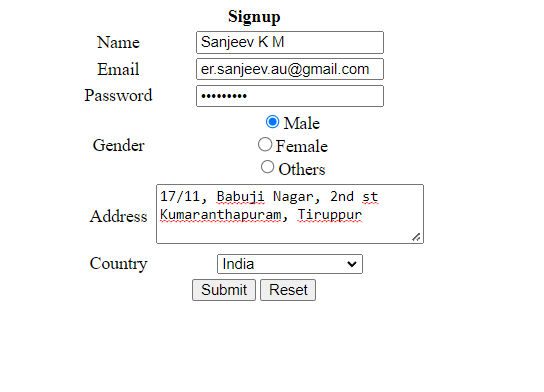
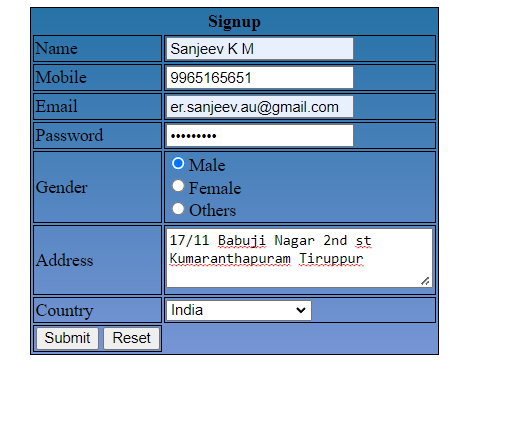
Assignment-2 completed

diff --git a/Assignments/Team_Member2-Sanjeev_K_M/Assignment1/form.html b/Assignments/Team_Member2-Sanjeev_K_M/Assignment1/form.html
@@ -1,18 +1,12 @@
 <!DOCTYPE html>
 <html>
 <head>
-    <title>Register</title>
+    <title>Register for UCloud</title>
+    <link rel="stylesheet" href="form_style.css">
 </head>
-<style>
-    form{
-        text-align: center;
-        max-width: 500px;
-        margin: auto;
-    }
-</style>
 <body>
     <form method="post">
-        <table>
+        <table class="reg_form">
             <tr>	
                 <th colspan="2">Signup</th>
             </tr>
@@ -20,7 +14,10 @@
                 <td><label for="name">Name</label></td>
                 <td><input id="name" type="text" name="name" placeholder="Enter your name" required></td>
             </tr>
-            
+            <tr>
+                <td><label for="mobile">Mobile</label></td>
+                <td><input id="mobile" type="Number" name="mobile" placeholder="Enter your phone number" required></td>
+            </tr>
             <tr>
                 <td><label for="email">Email</label></td>
                 <td><input id="email" type="email" name="email" placeholder="Enter your email" required></td>
@@ -50,31 +47,31 @@
                     <option value="" selected disabled hidden>Choose country</option>
                     <option value="india">India</option>
                     <option value="us">United States</option>
-                    <option value="uk">United Kingdom</option>
-                    <option value="russia">Russia</option>
+                    <option value="finland">Finland</option>
                     <option value="australia">Australia</option>
-                    <option value="none">None of the above</option>
+                    <option value="nota">None of the above</option>
                 </select>    
                 </td>
             </tr>
             <tr rowspan="2">
-                <td colspan="2">
-                    <button type="button" onclick="submitForm()">Submit</button>
-                    <input id="button" type="reset" value="Reset" name="reset">
+                <td>
+                <button type="button" onclick="testJS()">Submit</button>
+                <input id="button" type="reset" value="Reset" name="reset">
                 </td>
             </tr>
         </table>
     </form>
 </body>
 <script>
-    function submitForm() {
-    
+    function testJS() {
+    console.log("Hello");
     var name = document.getElementById('name').value;
+    var mobile = document.getElementById('mobile').value;
     var email = document.getElementById('email').value;
     var gender = document.getElementById('gender').value;
     var address = document.getElementById('address').value;
     var country = document.getElementById('country').value;
-    url = './registration_success.html?name=' + encodeURIComponent(name)+'?email=' + encodeURIComponent(email)+'?gender=' + encodeURIComponent(gender)+'?address=' + encodeURIComponent(address)+'?country=' + encodeURIComponent(country);
+    url = './success_page.html?name=' + encodeURIComponent(name)+'?mobile=' + encodeURIComponent(mobile)+'?email=' + encodeURIComponent(email)+'?gender=' + encodeURIComponent(gender)+'?address=' + encodeURIComponent(address)+'?country=' + encodeURIComponent(country);
 
     document.location.href = url;
 }

diff --git a/Assignments/Team_Member2-Sanjeev_K_M/Assignment2/templates/register.html b/Assignments/Team_Member2-Sanjeev_K_M/Assignment2/templates/register.html
@@ -1,0 +1,27 @@
+<html>
+    <head>
+        <meta charset="UTF-8">
+        <title> Register </title>
+        <link rel="stylesheet" href="{{ url_for('static', filename='styles.css') }}">             
+    </head>
+    <body></br></br></br></br></br>
+        <div align="center">
+          <div align="center" class="border">
+             <div class="header">
+                <h1 class="word">Register</h1>
+             </div></br></br></br>
+            <h2 class="word">
+                <form action="{{ url_for('register') }}" method="post">
+                  <div class="msg">{{ msg }}</div>
+                    <input id="username" name="username" type="text" placeholder="Enter Your Username" class="textbox"/></br></br>
+                    <input id="email" name="email" type="text" placeholder="Enter Your Email ID" class="textbox"/></br></br>
+                    <input id="rollno" name="rollno" type="text" placeholder="Enter Your Rollno" class="textbox"/></br></br>
+                    <input id="password" name="password" type="password" placeholder="Enter Your Password" class="textbox"/></br></br>
+                    <input type="submit" class="btn" value="Register"></br>
+                </form>
+            </h2>
+            <p class="bottom">Already have an account?  <a class="bottom" href="{{url_for('login')}}"> Login</a></p>
+          </div>
+        </div>
+    </body>
+</html>

diff --git a/Assignments/Team_Member2-Sanjeev_K_M/Assignment2/templates/login.html b/Assignments/Team_Member2-Sanjeev_K_M/Assignment2/templates/login.html
@@ -1,0 +1,25 @@
+<html>
+    <head>
+        <meta charset="UTF-8">
+        <title> Login </title>
+        <link rel="stylesheet" href="{{ url_for('static', filename='styles.css') }}">          
+    </head>
+    <body></br></br></br></br></br>
+        <div align="center">
+          <div align="center" class="border">
+             <div class="header">
+                <h1 class="word">Login</h1>
+             </div></br></br></br>
+            <h2 class="word">
+                <form action="{{ url_for('login') }}" method="post">
+                  <div class="msg">{{ msg }}</div>
+                    <input id="username" name="username" type="text" placeholder="Enter Your Username" class="textbox"/></br></br>
+                    <input id="password" name="password" type="password" placeholder="Enter Your Password" class="textbox"/></br></br></br>
+                    <input type="submit" class="btn" value="Login"></br></br>
+                </form>
+            </h2>
+            <p class="bottom">Don't have an account?  <a class="bottom" href="{{url_for('register')}}"> Register</a></p>
+          </div>
+        </div>
+    </body>
+</html>

diff --git a/Assignments/Team_Member2-Sanjeev_K_M/Assignment2/static/styles.css b/Assignments/Team_Member2-Sanjeev_K_M/Assignment2/static/styles.css
@@ -1,0 +1,55 @@
+body {
+  background-color: #a9e8cc;
+}
+
+.header {
+  padding: 2px 120px;
+  width: 150px;
+  height: 70px;
+  background-color: #3fa778;
+}
+
+.border {
+  padding: 10px 50px;
+  width: 400px;
+  height: 500px;
+  border: 1px solid #3fa778;
+  border-radius: 30px;
+  background-color: #3fa778;
+}
+
+.btn {
+  padding: 10px 40px;
+  background-color: #3fa778;
+  color: #ffffff;
+  font-style: oblique;
+  font-weight: bold;
+  border-radius: 10px;
+}
+
+.textbox {
+  padding: 10px 40px;
+  background-color: #3fa778;
+  text-color: #ffffff;
+  border-radius: 10px;
+}
+
+::placeholder {
+  color: #ffffff;
+  opacity: 1;
+}
+
+.word {
+  color: #ffffff;
+}
+
+.bottom {
+  color: white;
+}
+
+.welcome {
+  vertical-align: middle;
+  padding-top: 100px;
+  size: 500px;
+  font-weight: bold;
+}

diff --git a/Assignments/Team_Member2-Sanjeev_K_M/Assignment2/templates/welcome.html b/Assignments/Team_Member2-Sanjeev_K_M/Assignment2/templates/welcome.html
@@ -1,0 +1,14 @@
+<!DOCTYPE html>
+<html>
+  <head>
+    <meta charset="UTF-8" />
+    <title>Welcome</title>
+    <link
+      rel="stylesheet"
+      href="{{ url_for('static', filename='styles.css') }}"
+    />
+  </head>
+  <body align="center" class="welcome">
+    <h1>Welcome!!</h1>
+  </body>
+</html>

diff --git a/Assignments/Team_Member2-Sanjeev_K_M/Assignment2/flaskapp.py b/Assignments/Team_Member2-Sanjeev_K_M/Assignment2/flaskapp.py
@@ -1,0 +1,42 @@
+from flask import Flask,render_template,request
+from mydb import connection as db
+
+
+app = Flask(__name__)
+
+@app.route("/",methods=['GET', 'POST'])
+@app.route("/register",methods=['GET', 'POST'])
+def register():
+    msg = ''
+    if request.method == 'POST':
+        name = request.form["username"]
+        email = request.form["email"]
+        rollno = request.form["rollno"]
+        password = request.form["password"]
+        print(name,email,rollno,password)
+        db.register(name,email,rollno,password)
+        return render_template('login.html', msg = msg) 
+    else:
+        return render_template('register.html', msg = msg)
+
+@app.route('/login', methods =['GET', 'POST'])
+def login():
+    msg = ''
+    if request.method == 'POST':
+        name = request.form["username"]
+        password = request.form["password"]
+        result_dict = db.login(name,password)
+        if result_dict != False:
+            return render_template('welcome.html',msg = msg)
+        return render_template('login.html', msg = msg)
+
+    else:
+        return render_template('login.html', msg = msg)
+
+@app.route('/welcome', methods =['GET', 'POST'])
+def welcome():
+    msg = ''
+    return render_template('welcome.html', msg = msg)
+
+if __name__=="__main__":
+    app.run(debug=True)

diff --git a/Assignments/Team_Member2-Sanjeev_K_M/Assignment2/mydb/connection.py b/Assignments/Team_Member2-Sanjeev_K_M/Assignment2/mydb/connection.py
@@ -1,0 +1,28 @@
+import ibm_db
+
+try:
+    conn = ibm_db.connect("DATABASE=bludb;HOSTNAME=9938aec0-8105-433e-8bf9-0fbb7e483086.c1ogj3sd0tgtu0lqde00.databases.appdomain.cloud9938aec0-8105-433e-8bf9-0fbb7e483086.c1ogj3sd0tgtu0lqde00.databases.appdomain.cloud;PORT=32459;PROTOCOL=TCPIP;UID=ngx98929;PWD=qsuBE4g4GrPIpPaS;Security=SSL;SSLSecurityCertificate=DigiCertGlobalRootCA.crt", "", "")
+    print("Connected to the database")
+except:
+    print("Error in connecting to the database: ", ibm_db.conn_errormsg())
+
+
+def register(name, email, rollno, password):
+    insert_sql = "INSERT INTO  WHW07299.USER VALUES (?, ?, ?, ?)"
+    prep_stmt = ibm_db.prepare(conn, insert_sql)
+    ibm_db.bind_param(prep_stmt, 1, name)
+    ibm_db.bind_param(prep_stmt, 2, email)
+    ibm_db.bind_param(prep_stmt, 3, rollno)
+    ibm_db.bind_param(prep_stmt, 4, password)
+    ibm_db.execute(prep_stmt)
+
+
+def login(name, password):
+    select_sql = "SELECT * FROM  WHW07299.USER WHERE USERNAME = ? AND PASSWORD = ?"
+    prep_stmt = ibm_db.prepare(conn, select_sql)
+    ibm_db.bind_param(prep_stmt, 1, name)
+    ibm_db.bind_param(prep_stmt, 2, password)
+    out = ibm_db.execute(prep_stmt)
+    result_dict = ibm_db.fetch_assoc(prep_stmt)
+    print(result_dict)
+    return result_dict
